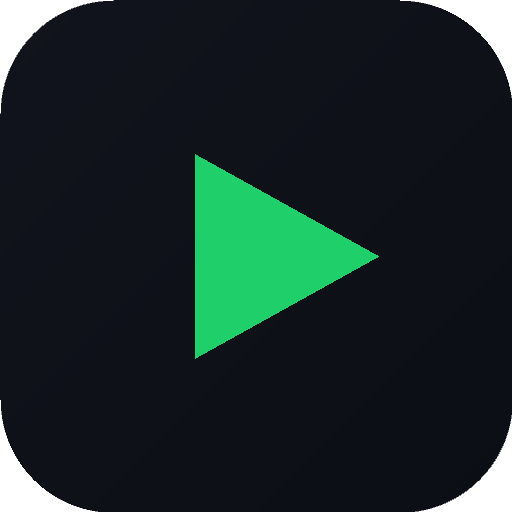
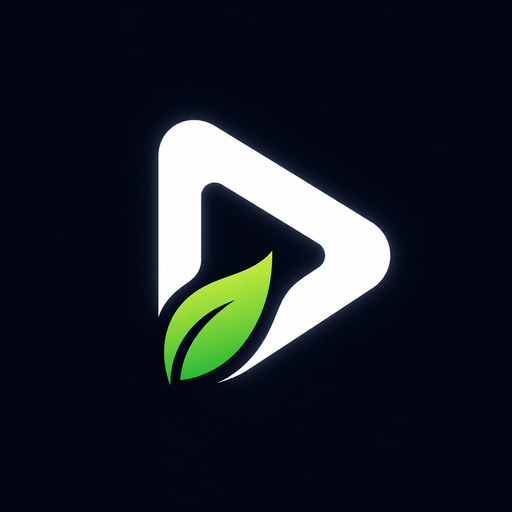
feat: Android APK kit (phones + TV, no Play Store, no domain) + service worker
- scripts/build-apk.sh: one-command APK build on the user's laptop via
  web2apk (Netlify UI URL baked in; engine tunnel URL is set per-device on
  the login screen, so the APK never needs rebuilding).
- ANDROID-APK.md: full guide — what URL to bake, PWA Builder cloud path
  (zero toolchain), local web2apk path, side-loading on phones and Android
  TV, and no-domain fixed-URL options (Tailscale Funnel / ngrok static).
- client/public/sw.js + registration: service worker makes the app
  installable (Chrome install prompt + PWA Builder/APK tooling require it);
  network-first, never intercepts /api or video streams, app-shell offline
  fallback.
- New Heiken app icon (512 + 192) replacing the old seedbox branding.

diff --git a/client/public/sw.js b/client/public/sw.js
@@ -1,0 +1,52 @@
+/* Heiken service worker.
+ *
+ * Purpose: make Heiken installable (Chrome fires the "Add to Home screen"
+ * / install prompt only when a service worker controls the page) and keep
+ * the app shell snappy. This deliberately does NOT cache API responses or
+ * video streams — those are long-lived/range-based and must always hit the
+ * live server (and the server address can change per device).
+ *
+ * Strategy: network-first for everything. On failure, fall back to a
+ * cached copy of the app shell so the UI can still render (and show its
+ * offline state) when the tunnel is briefly unreachable.
+ */
+const SHELL = ['/', '/index.html', '/manifest.webmanifest'];
+
+self.addEventListener('install', (event) => {
+  event.waitUntil(
+    caches.open('heiken-shell-v1').then((c) => c.addAll(SHELL).catch(() => {}))
+  );
+  self.skipWaiting();
+});
+
+self.addEventListener('activate', (event) => {
+  event.waitUntil(
+    caches.keys()
+      .then((keys) => Promise.all(keys.filter((k) => k !== 'heiken-shell-v1').map((k) => caches.delete(k))))
+      .then(() => self.clients.claim())
+  );
+});
+
+self.addEventListener('fetch', (event) => {
+  const req = event.request;
+  // Never intercept API, stream, subtitle or image requests — always live.
+  if (req.method !== 'GET') return;
+  const url = new URL(req.url);
+  if (url.pathname.startsWith('/api/')) return;
+  if (/\.(mp4|m4v|webm|mkv|ts|srt|vtt)$/i.test(url.pathname)) return;
+
+  event.respondWith(
+    fetch(req)
+      .then((res) => {
+        // Cache successful navigations/app-shell responses for offline fallback
+        if (res.ok && (req.mode === 'navigate' || url.pathname === '/' || url.pathname === '/index.html')) {
+          const clone = res.clone();
+          caches.open('heiken-shell-v1').then((c) => c.put(url.pathname, clone)).catch(() => {});
+        }
+        return res;
+      })
+      .catch(() =>
+        caches.match(req).then((hit) => hit || (req.mode === 'navigate' ? caches.match('/index.html') : Response.error()))
+      )
+  );
+});

diff --git a/client/src/main.jsx b/client/src/main.jsx
@@ -3,6 +3,14 @@ import { createRoot } from 'react-dom/client'
 import './index.css'
 import App from './App.jsx'
 
+// Register the service worker (installability + app-shell offline fallback).
+// It never intercepts /api or video streams, so playback is unaffected.
+if ('serviceWorker' in navigator && import.meta.env.PROD) {
+  window.addEventListener('load', () => {
+    navigator.serviceWorker.register('/sw.js').catch(() => { /* optional */ });
+  });
+}
+
 createRoot(document.getElementById('root')).render(
   <StrictMode>
     <App />

diff --git a/ANDROID-APK.md b/ANDROID-APK.md
@@ -1,0 +1,99 @@
+# Heiken — Android APK (phones + Android TV, no Play Store)
+
+A side-loadable **Heiken APK** for Android phones **and** Android smart TVs.
+It's a fullscreen app that loads the Heiken UI — no store, no domain needed.
+
+---
+
+## What the APK points at (read this — it saves you rebuilds)
+
+The APK bakes in one URL. Use the **static Netlify URL**
+(`https://<your-site>.netlify.app`) because it never changes.
+
+The **engine** runs on your laptop behind a Cloudflare **quick** tunnel,
+whose URL changes every run. That's fine: the login screen has a
+**"Server address"** box. Each device types the current tunnel URL there
+**once** (it's remembered on that device). So:
+
+- The APK is built **once** and works forever.
+- When the tunnel URL changes, you just update the server-address box —
+  no new APK, no Netlify redeploy.
+
+---
+
+## Option 1 — Cloud builder, zero toolchain (easiest)
+
+1. Push the latest code and let Netlify rebuild (the service worker makes
+   the site installable / packageable).
+2. Go to **https://www.pwabuilder.com**
+3. Enter `https://<your-site>.netlify.app` → **Start**
+4. **Package for stores** → **Android**
+5. Download the **APK** (and/or AAB). It builds a Trusted Web Activity —
+   fullscreen, own icon, like a native app.
+6. Side-load it (below).
+
+## Option 2 — Build on your laptop (one command)
+
+```bash
+# once: install Java
+sudo apt install openjdk-17-jdk-headless        # Ubuntu/Debian
+
+# build (first run downloads Android tooling automatically)
+./scripts/build-apk.sh                          # → dist-apk/heiken.apk
+```
+
+That wraps the Netlify UI in a WebView app named **Heiken**
+(`com.heiken.app`), with the new icon.
+
+> No domain? Doesn't matter — see "No domain in Cloudflare" below.
+
+---
+
+## Side-loading
+
+### Android phones
+1. Copy `heiken.apk` to the phone (USB, or upload to Drive and open on the phone).
+2. Tap it → allow **"Install unknown apps"** for your file manager/browser.
+3. Open **Heiken** → login screen → **Server address** → paste the current
+   tunnel URL → **Use this server** → enter your ticket.
+
+### Android smart TVs
+1. Copy the APK to a USB stick, plug into the TV.
+2. Use a file manager app (e.g. **Downloader**, or **X-plore**) → open the
+   APK → allow unknown sources when asked.
+   *Alternative:* with ADB from your laptop:
+   `adb connect <tv-ip>` then `adb install heiken.apk`.
+3. The app is remote-friendly (D-pad + Enter work everywhere; the player
+   maps `←`/`→` seek, `Space` play/pause, `F` fullscreen, `M` mute).
+
+---
+
+## No domain in Cloudflare — your options
+
+You do **not** need a domain for any of this:
+
+| Approach | URL | Notes |
+|---|---|---|
+| **Cloudflare quick tunnel** (what you have) | changes every run | handled by the login "Server address" box — APK never rebuilds |
+| **Tailscale Funnel** | `https://<machine>.ts.net` — **fixed** | free, no domain; install Tailscale on the laptop, enable Funnel → point at :3000 |
+| **ngrok** (free account) | `https://heiken.ngrok-free.app` — **fixed** | free static domain; `ngrok http 3000 --url=https://heiken.ngrok-free.app` |
+| **Buy a cheap domain** | `https://heiken.example.com` | ~$1–2/yr; then finish your named tunnel (route + DNS) |
+
+If you ever get a **fixed** URL (any of the last three), bake it into the
+build instead of the Netlify URL: set `VITE_API_BASE_URL` to it in Netlify,
+redeploy, rebuild the APK pointing at the Netlify URL — and then nobody ever
+touches the server-address box again.
+
+---
+
+## Rebuilding after a code change
+
+Just push → Netlify redeploys the UI → the existing APK picks up the new
+UI automatically (it's a webview). Rebuild the APK **only** if you change
+the icon, app name, or the baked URL.
+
+## Notes
+- The APK is signed with a debug key (fine for side-loading; keep the same
+  keystore if you ever reinstall over it).
+- The service worker (`client/public/sw.js`) never intercepts `/api` or
+  video streams, so streaming works exactly as in the browser.

diff --git a/SETUP-GUIDE.md b/SETUP-GUIDE.md
@@ -144,6 +144,10 @@ the link **fixed** (e.g. `https://heiken.yourdomain.com`):
    `←`/`→` = ±10s seek, `Space` = play/pause, `F` = fullscreen, `M` = mute).
 4. Add to home screen if your TV browser supports it (TV Bro does).
 
+> 💾 Want a real installable **APK** (side-load, no Play Store) instead of the
+> PWA? See **[ANDROID-APK.md](ANDROID-APK.md)** — phones and Android TV,
+> no domain required.
+
 ### "Do I need a real Android app (APK) for phones/TVs?"
 
 **No — Heiken is a PWA, and that's the right call here.** A Play Store APK

diff --git a/README.md b/README.md
@@ -18,6 +18,7 @@ Stream Torrents Instantly
 [Features](#-features) • [Screenshots](#-screenshots) • [Quick Start](#-quick-start) • [Installation](#-installation) • [Documentation](#-documentation)
 
 > 📖 **New to Heiken?** Follow the **[Step-by-Step Setup Guide](SETUP-GUIDE.md)**
+> · 📱 **Android APK** (phones & TV, no Play Store): **[ANDROID-APK.md](ANDROID-APK.md)**
 > — Netlify static UI + engine on your laptop + Cloudflare tunnel, phones and
 > Android TV included.
 
